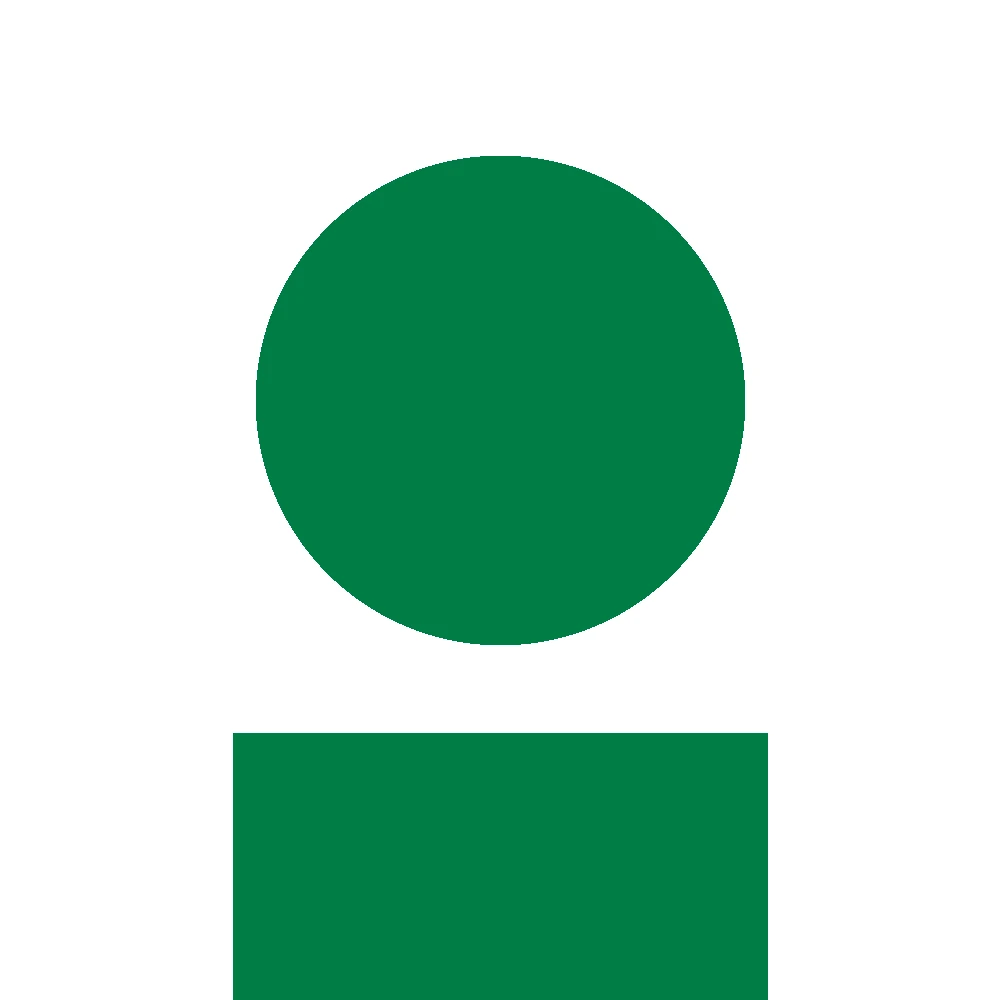
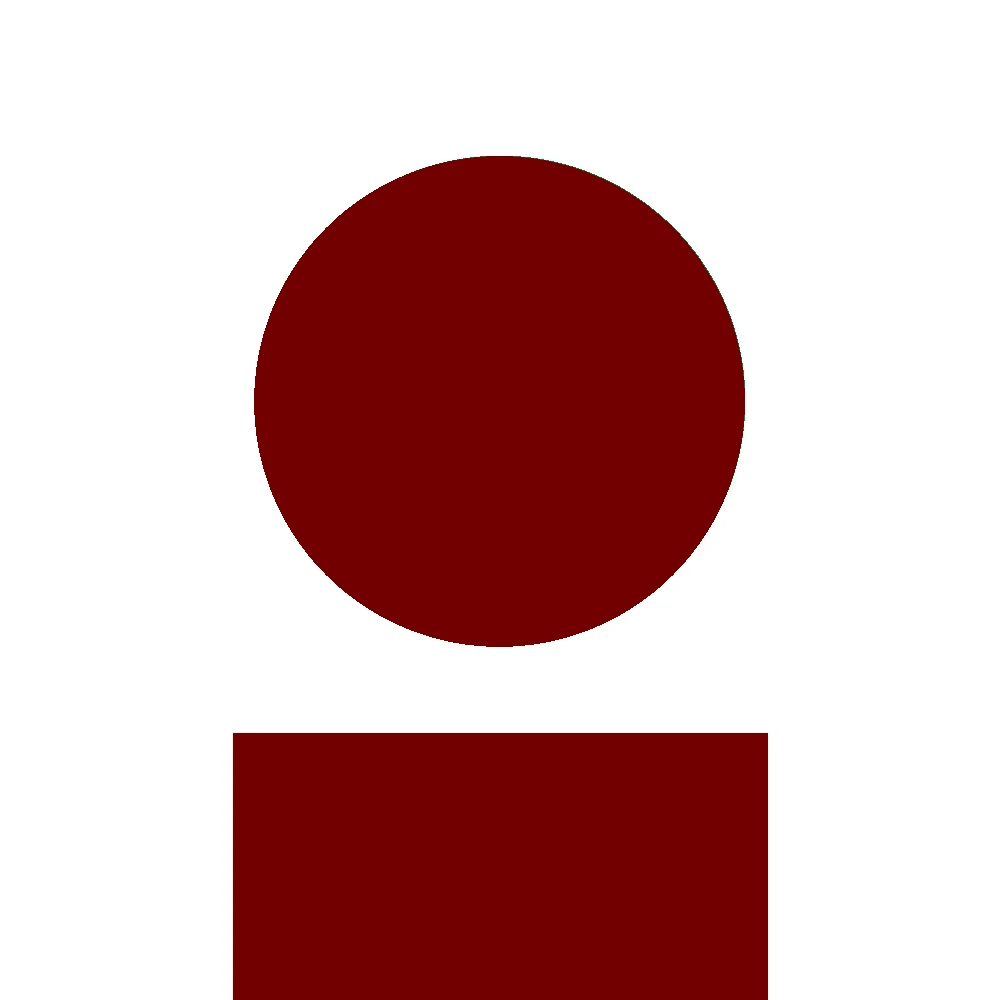
test version - new color

diff --git a/rcs/style.css b/rcs/style.css
@@ -24,13 +24,22 @@ p{
 #all{
     font-family: "DinaChaumont";
 }
+:root{
+    --unblue: #009EDB;
+    --muncolor: var(--unblue);
+}
 [class*="link"]{
     color: #fff;
     font-style: italic;
+    transition-duration: 0.4s;
+}
+[class*="link"]:hover{
+    color: var(--muncolor);
 }
 .trans img{
     width: 100%;
 }
+
 
 /* =====================================================
                     WELCOME PAGE
@@ -124,6 +133,7 @@ p{
 }
 .band-link:hover{
     background-color: #313131ca;
+    color: #fff;
 }
 .btn{
     color: #fff;
@@ -173,7 +183,9 @@ p{
     max-width: 120px;
 }
 .wmun{
-    background: #007d45;
+    background: url(../temp.webp) center no-repeat;
+    background-size: cover;
+    padding: 50px 0;
     color: #fff;
 }
 .wmun-icon{
@@ -184,7 +196,10 @@ p{
     width: 70px;
 }
 .price{
-    background: #007d45;
+    margin-top: 100px;
+    padding: 50px 0;
+    background: url(../temp2.webp) center top 40% no-repeat;
+    background-size: cover;
     color: #fff;
 }
 .price h2{
@@ -249,13 +264,13 @@ p{
 .learnmore a{
     text-decoration: none;
     color: black;
-    border: solid 2px #007d45;
+    border: solid 2px var(--muncolor);
     border-radius: 0.5em;
     padding: 0.2rem 0.4rem;
+    transition-duration: 0.2s;
 }
 .learnmore a:hover{
-    transition: 0.2s;
-    color: #007d45;
+    color: var(--muncolor);
 }
 /* =====================================================
                         TEAM
@@ -281,17 +296,13 @@ p{
 .kami h3{
     font-style: italic;
 }
-.team{
-    background: #007d45;
-    color: #fff;
-}
 .team h2, .staff h2{
     margin-bottom: 50px;
 }
 .team img{
     width: 100%;
     max-width: 200px;
-    box-shadow: -2px 2px 5px #00331c;
+    box-shadow: -2px 2px 5px #888;
 }
 .team-student, .staff-indiv{
     text-align: center;
@@ -305,6 +316,7 @@ p{
 }
 .team-role, .staff-role{
     width: 100%;
+    color: var(--muncolor);
     text-align: inherit;
     font-style: italic;
     margin-bottom: 0;
@@ -331,7 +343,7 @@ p{
     box-shadow: -2px 2px 5px #888;
 }
 .historic .help{
-    color: #007d45;
+    color: var(--muncolor);
     font-style: italic;
 }
 .historic a.help{
@@ -349,8 +361,6 @@ p{
     box-shadow: -5px 5px 5px #888;
 }
 .school{
-    background: #007d45;
-    color: #fff;
     padding-top: 50px;
 }
 .school h3{
@@ -359,6 +369,9 @@ p{
 }
 .school li{
     margin-bottom: 5px;
+}
+.school b, .school h3{
+    color: var(--muncolor);
 }
 
 
@@ -374,7 +387,7 @@ p{
     margin-top: 50px;
 }
 .city-legend{
-    color: #007d45;
+    color: var(--muncolor);
     font-weight: bold;
     padding-top: 5px;
 }
@@ -388,7 +401,7 @@ p{
     text-align: center;
 }
 .precision a{
-    color: #007d45;
+    color: var(--muncolor);
 }
 
 /* =====================================================
@@ -485,7 +498,7 @@ p{
     font-weight: bold;
 }
 .book-comite{
-    color: #007d45;
+    color: var(--unblue);
     font-family: "ChaumontScript";
     font-weight: normal;
 }
@@ -524,14 +537,14 @@ p{
     text-align: center;
 }
 .signin-text{
-    color: #007d45;
+    color: var(--muncolor);
     text-align: center;
 }
 .signin input{
     min-width: 220px;
 }
 .signin-btn{
-    border: solid 1px #007d45;
+    border: solid 1px var(--muncolor);
     border-radius: 0.7em;
     background-color: #ffffff;
     cursor: pointer;
@@ -553,19 +566,18 @@ p{
     text-align: center;
 }
 .signup a{
-    color: #007d45;
+    color: var(--muncolor);
 }
 
 /* =====================================================
                         DOCS
 ======================================================*/
 .download{
-    color:#004525;
+    color: black;
     text-align: center;
 }
 .download [class*=top]{
-    background-color: #007d45;
-    color: white;
+    border-bottom: solid black 1px;
     padding: 10px;
 }
 .download .title,.download-button,.date,.lng{
@@ -621,17 +633,22 @@ footer h4{
     flex-direction: column;
     justify-content: center;
     align-items: center;
-    padding: 20px;    
+    padding: 20px;
 }
 .footer-iframe img{
     width: 100%;
     max-width: 300px;
+    transition-duration: 0.5s;
+}
+.footer-iframe img:hover{
+    transform: scale(1.02);
 }
 
 /* =====================================================
                  MUN DOWNLOAD BUTTON
 ======================================================*/
 .mun-wrap {
+    --mun2 : #ac0000;
     text-decoration: none;
     display: flex;
     justify-content: center;
@@ -645,7 +662,7 @@ footer h4{
     display: flex;
     align-items: center;
     border: none;
-    background: linear-gradient(45deg, #007d45, #00521f);
+    background: linear-gradient(45deg, var(--mun2), var(--muncolor));
     overflow: hidden;
 }
 .mun-wrap .mun-button, .mun-icon, .mun-text {
@@ -671,7 +688,7 @@ footer h4{
     fill: white;
 }
 .mun-wrap .mun-button:hover {
-    background: linear-gradient(45deg, #007d45, #00521f);
+    background: linear-gradient(45deg, var(--mun2),var(--muncolor));
 }
 .mun-wrap .mun-button:hover .mun-text {
     color: transparent;

diff --git a/fr/documents.html b/fr/documents.html
@@ -141,7 +141,7 @@
                 <p class="document-text">Logos CHAU'MUN</p>
                 <a class="mun-wrap" href="https://github.com/Synbi0se/logo-MUN">
                     <button class="mun-button" type="button">
-                        <span class="mun-text">Open link</span>
+                        <span class="mun-text">Ouvrir</span>
                         <span class="mun-icon"><svg xmlns="http://www.w3.org/2000/svg" height="1em" viewBox="0 0 640 512" fill="white"><path d="M579.8 267.7c56.5-56.5 56.5-148 0-204.5c-50-50-128.8-56.5-186.3-15.4l-1.6 1.1c-14.4 10.3-17.7 30.3-7.4 44.6s30.3 17.7 44.6 7.4l1.6-1.1c32.1-22.9 76-19.3 103.8 8.6c31.5 31.5 31.5 82.5 0 114L422.3 334.8c-31.5 31.5-82.5 31.5-114 0c-27.9-27.9-31.5-71.8-8.6-103.8l1.1-1.6c10.3-14.4 6.9-34.4-7.4-44.6s-34.4-6.9-44.6 7.4l-1.1 1.6C206.5 251.2 213 330 263 380c56.5 56.5 148 56.5 204.5 0L579.8 267.7zM60.2 244.3c-56.5 56.5-56.5 148 0 204.5c50 50 128.8 56.5 186.3 15.4l1.6-1.1c14.4-10.3 17.7-30.3 7.4-44.6s-30.3-17.7-44.6-7.4l-1.6 1.1c-32.1 22.9-76 19.3-103.8-8.6C74 372 74 321 105.5 289.5L217.7 177.2c31.5-31.5 82.5-31.5 114 0c27.9 27.9 31.5 71.8 8.6 103.9l-1.1 1.6c-10.3 14.4-6.9 34.4 7.4 44.6s34.4 6.9 44.6-7.4l1.1-1.6C433.5 260.8 427 182 377 132c-56.5-56.5-148-56.5-204.5 0L60.2 244.3z"></path></svg></span>
                     </button>
                 </a>

diff --git a/en/school.html b/en/school.html
@@ -148,9 +148,6 @@
         </button>
     </div>
 
-    <div class="trans">
-        <img src="../img/trans/_i.webp" alt="">
-    </div>
     <div class="school">
         <div class="container">
             <h2>The Charles de Gaulle highschool nowadays:</h2>
@@ -216,9 +213,6 @@
                 </div>
             </div>
         </div>
-    </div>
-    <div class="transition">
-        <img src="../img/trans/i-.webp" alt="">
     </div>
 
     <div class="container historic">

diff --git a/fr/school.html b/fr/school.html
@@ -148,9 +148,6 @@
         </button>
     </div>
 
-    <div class="trans">
-        <img src="../img/trans/_i.webp" alt="">
-    </div>
     <div class="school">
         <div class="container">
             <h2>Le lycée Charles de Gaulle aujourd'hui :</h2>
@@ -216,9 +213,6 @@
                 </div>
             </div>
         </div>
-    </div>
-    <div class="transition">
-        <img src="../img/trans/i-.webp" alt="">
     </div>
 
     <div class="container historic">

diff --git a/fr/home.html b/fr/home.html
@@ -79,9 +79,6 @@
         <!-- SPONSORS WITH JS -->
     </div>
 
-    <div class="trans">
-        <img src="../img/trans/i_.webp" alt="">
-    </div>
     <div class="wmun">
         <div class="container">
             <div class="row">
@@ -141,10 +138,6 @@
             </div>
         </div>
     </div>
-    <div class="trans">
-        <img src="../img/trans/i-.webp" alt="">
-    </div>
-
 
     <div class="container key">
         <h2>Chiffres et points clés :</h2>

diff --git a/en/home.html b/en/home.html
@@ -79,9 +79,6 @@
         <!-- SPONSORS WITH JS -->
     </div>
 
-    <div class="trans">
-        <img src="../img/trans/i_.webp" alt="">
-    </div>
     <div class="wmun">
         <div class="container">
             <div class="row">
@@ -140,9 +137,6 @@
                 </div>
             </div>
         </div>
-    </div>
-    <div class="trans">
-        <img src="../img/trans/i-.webp" alt="">
     </div>
 
     <div class="container key">

diff --git a/fr/team.html b/fr/team.html
@@ -93,9 +93,6 @@
         </div>
     </div>
     
-    <div class="trans">
-        <img src="../img/trans/i_.webp" alt="">
-    </div>
     <div class="team">
         <h2>L'équipe d'élèves :</h2>
         <div class="container">
@@ -172,9 +169,6 @@
                 </div>
             </div>
         </div>
-    </div>
-    <div class="trans">
-        <img src="../img/trans/i-.webp" alt="">
     </div>
 
     <div class="container staff">

diff --git a/en/team.html b/en/team.html
@@ -93,9 +93,6 @@
         </div>
     </div>
     
-    <div class="trans">
-        <img src="../img/trans/i_.webp" alt="">
-    </div>
     <div class="team">
         <h2>The team of student:</h2>
         <div class="container">
@@ -172,9 +169,6 @@
                 </div>
             </div>
         </div>
-    </div>
-    <div class="trans">
-        <img src="../img/trans/i-.webp" alt="">
     </div>
 
     <div class="container staff">

diff --git a/rcs/script.js b/rcs/script.js
@@ -70,6 +70,6 @@ function showDelegateAttribution() {
   }
   else{
     attrib.innerHTML = 'Attribution not settled / Attibution non faite'
-    mailbox.style.border = 'solid 1px #ff0000ff'
+    mailbox.style.border = 'solid 1px #9C2007'
   }
 }
